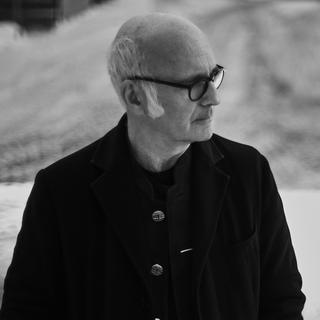
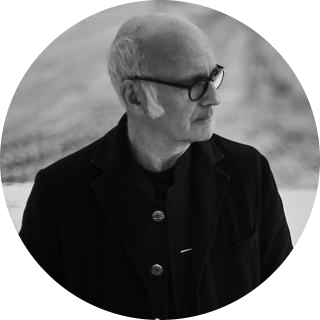
cards added

diff --git a/index.html b/index.html
@@ -230,17 +230,17 @@
         </div>
         <div class="row">
             <div class="col">
-                    <a href="#">
-                        <img src="img/radar.jpeg" alt="card">
+                    <a class="" href="#">
+                        <img src="img/youg.jpeg" alt="card">
                     </a>
-                    <h3>Heavy Metal</h3>
+                    <h3>Youg</h3>
             </div>
             
             <div class="col">
                     <a href="#">
-                        <img src="img/mixdaily.jpeg" alt="card">
+                        <img src="img/einaudi.jpeg" alt="card">
                     </a>
-                    <h3>Heavy Metal</h3>
+                    <h3>Einaudi</h3>
             </div>
         </div>
      </div>

diff --git a/css/style.css b/css/style.css
@@ -274,8 +274,13 @@ h5{
 .cards_title{
     text-align: start;
     padding-bottom: 20px;
+    padding-left: 10px;
 }
 
+/*3rd row*/
+.radius_img{
+    border-radius: 50%;
+}
 
 
 /*Footer*/
